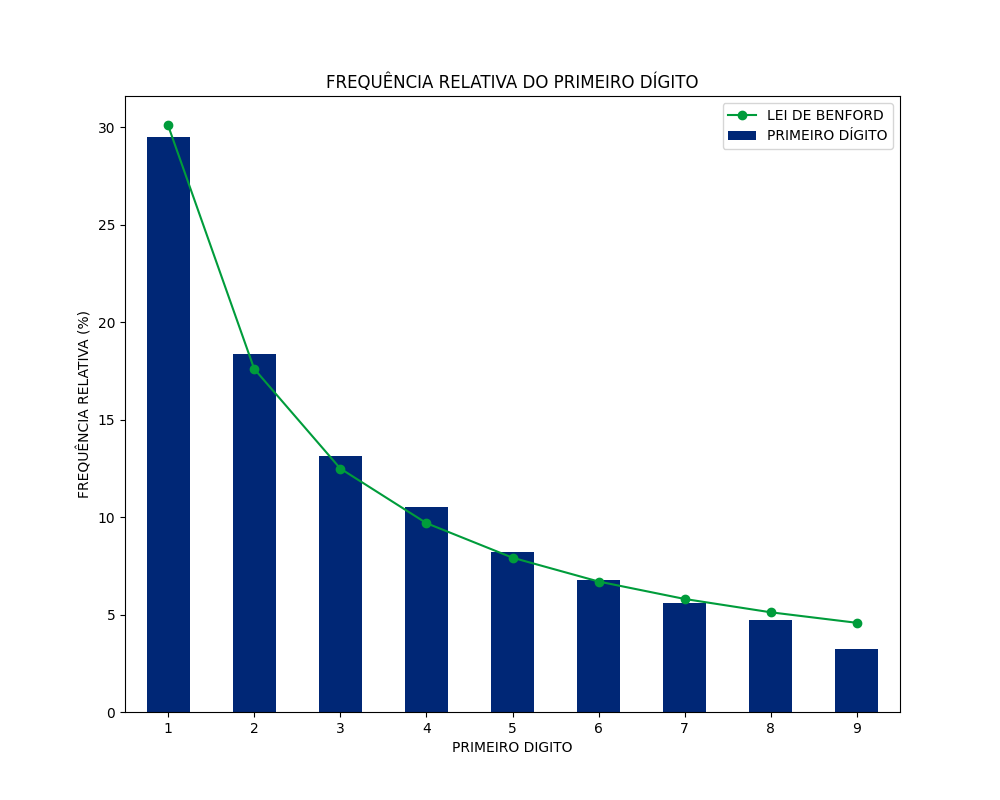
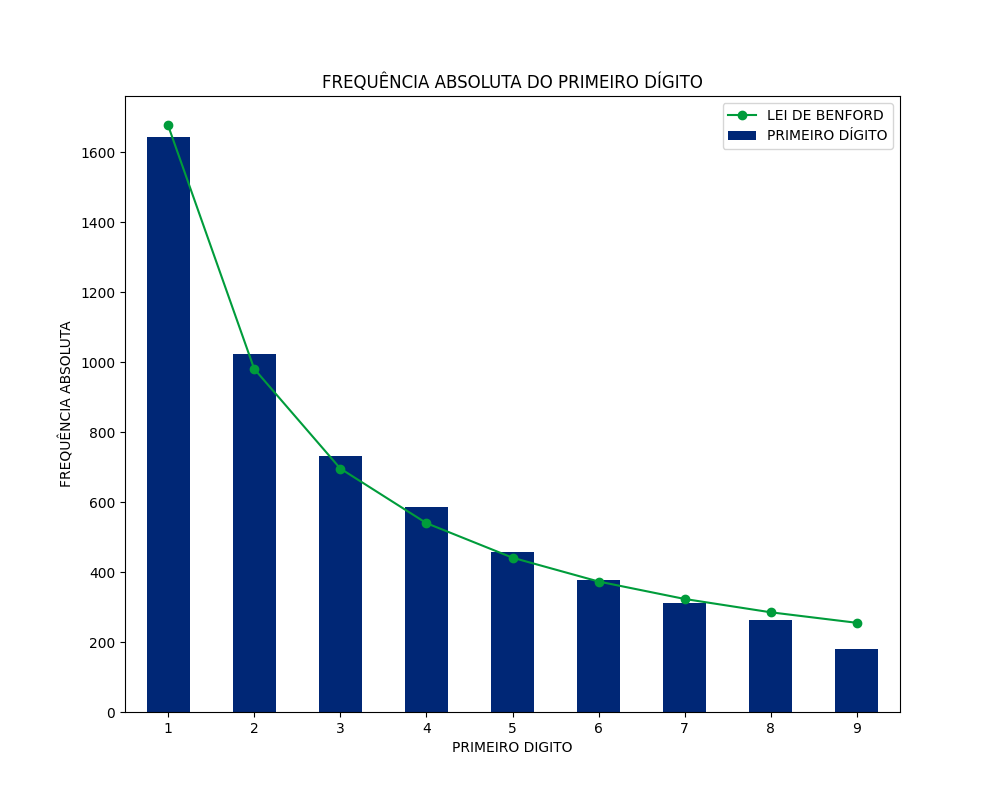
Analisa o erro relativo ao inves de aplicar o teste de aderencia Qui-quadrado.

diff --git a/src/LeiDeBenford.py b/src/LeiDeBenford.py
@@ -5,12 +5,11 @@ from scipy import stats
 class LeiDeBenford:
     """
         Determina o "quão próximo" está da lei de Benford uma distribuição de
-        frequência relativa de um conjunto de dados.
+        frequência absoluta de um conjunto de dados.
     """
     _dado = None
     _coluna = ""
-    _leiDeBenford = [100.0*(log10(d + 1) - log10(d)) for d in range(1, 10)]
-    _frequenciaEsperada = []
+    _leiDeBenford = [(log10(d + 1) - log10(d)) for d in range(1, 10)]
 
     """
         Inicialização da classe.
@@ -19,116 +18,74 @@ class LeiDeBenford:
         self._nomeDoArquivo = nomeDoArquivo
         self._coluna = coluna
         self._dado = pd.read_csv(nomeDoArquivo, delimiter = delimitador, encoding = codificacao)
-        self._frequenciaEsperada = self._leiDeBenford[0:8]
-        self._frequenciaEsperada += self._leiDeBenford[8]
 
     """
-        Aplica o Teste de Aderência Qui-Quadrado em uma distribuição de frequência
-        relativa.
-
-        Argumentos:
-            frequenciaRelativa (list): lista com a frequência relativa dos
-            dígitos de 1 até 9 na amostra de dados.
-            alfa (float): nível de confiança do teste.
-            grauDeLiberdede: grau de liberdade do teste.
+        Determina a frequência absoluta dos algarismos de 1 até 9 no primeiro
+        dígito dos valores na amostra de dados.
 
         Retorno:
-            Imprime no terminal o resultado da aplicação do teste.
+            frequenciaAbsoluta (list): lista com a frequência absoluta.
     """
-    def testarAderencia(self, frequenciaRelativa, alfa = 0.05, grauDeLiberdade = 7):
-        nivelDeConfianca = 1 - alfa
-        qui2Critico = stats.chi2.ppf(nivelDeConfianca, grauDeLiberdade)
-        print(f"(alfa = {alfa}, grauDeLiberdade = {grauDeLiberdade}, chi2Critico = {qui2Critico:5.2f})")
-        frequenciaObservada = frequenciaRelativa[0:8]
-        frequenciaObservada[7] += frequenciaRelativa[8]
-        qui2, p = stats.chisquare(f_obs = frequenciaObservada, f_exp = self._frequenciaEsperada)
-        print(f"qui2 = {qui2}, p = {p}")
-        if(qui2 < qui2Critico):
-            print(f"(qui2 < qui2Critico): Os dados seguem a distribuição da lei de Benford.")
-        else:
-            print(f"(qui2 >= qui2Critico): Os dados não seguem a distribuição da lei de Benford.")
-
-    """
-        Determina a frequência relativa dos dígitos de 1 até 9 na amostra de dados.
-
-        Retorno:
-            frequenciaRelativa (list): lista com a frequência relativa dos
-            dígitos de 1 até 9 na amostra de dados.
-    """
-    def frequenciaRelativa(self):
-        frequenciaRelativa = []
-        totalDeMunicipios = len(self._dado)
+    def frequenciaAbsoluta(self):
+        frequenciaAbsoluta = []
         primeiroDigito = pd.DataFrame({
             self._coluna : self._dado[self._coluna].astype(str)
         })
         primeiroDigito[self._coluna] = primeiroDigito[self._coluna].apply(lambda valor: valor[0])
         for d in range(1, 10):
-            frequenciaAbsoluta = len(primeiroDigito.loc[primeiroDigito[self._coluna] == str(d)])
-            frequenciaRelativa.append(100.0*frequenciaAbsoluta/totalDeMunicipios)
+            frequenciaAbsoluta.append(len(primeiroDigito.loc[primeiroDigito[self._coluna] == str(d)]))
 
-        return frequenciaRelativa
+        return frequenciaAbsoluta
 
     """
         Determina o mínimo e o máximo da amostra de dados, bem como a ordem de
         grandeza entre a diferença dos mesmos.
 
         Retorno:
-            Imprime os valores de mínimo e máximo e da ordem de grandeza entre a
-            diferença deles.
+            minimo (int): menor valor dos dados.
+            maximo (int): maior valor dos dados.
+            odg (int): ordem de grandeza da diferença entre o máximo e o mínimo.
     """
     def ordemDeGradeza(self):
         minimo = self._dado[self._coluna].min()
-        municipioMinimo = self._dado.loc[self._dado[self._coluna] == minimo]
         maximo = self._dado[self._coluna].max()
-        municipioMaximo = self._dado.loc[self._dado[self._coluna] == maximo]
-        print(f"MENOR POPULÇÃO\n{municipioMinimo}\n")
-        print(f"MAIOR POPULÇÃO\n{municipioMaximo}\n")
-        print(f"ordemDeGrandeza(maximo - minimo) = 10^{self.odg(maximo - minimo)}")
+        diferenca = maximo - minimo
+        odg = 0
+        while(diferenca >= 10.0):
+            diferenca /= 10.0
+            odg += 1
+
+        return (minimo, maximo, odg)
 
     """
-        Determina a ordem de grandeza de um número real positivo.
-
-        Argumento:
-            valor (float): número real positivo.
-
-        Retorno:
-            ord (int): ordem de grandeza do valor desejado.
-    """
-    def odg(self, valor):
-        ord = -1
-        while(valor > 1.0):
-            valor /= 10.0
-            ord += 1
-
-        return ord
-
-    """
-        Gera o arquivo com o gráfico da frequência relativa juntamente com a 
+        Gera o arquivo com o gráfico da frequência absoluta juntamente com a 
         curva da lei de Benford.
 
         Argumento:
-            frequenciaRelativa (list): lista com a frequência relativa dos
+            frequenciaAbsoluta (list): lista com a frequência absoluta dos
             dígitos de 1 até 9 na amostra de dados.
             nomeDoArquivo (str): caminho do arquivo.
             titulo (str): título do gráfico.
             cores (list): lista com os códigos hexadecimais das cores usadas
             no gráfico.
         Retorno:
-            Gera o arquivo com o gráfico desejado.
+            Nenhum retorno de variável. Gera o arquivo com o gráfico desejado.
     """
-    def grafico(self, frequenciaRelativa, nomeDoArquivo, titulo, cores = ["#009c3b", "#002776"]):
-        frel = {
-            "FREQUENCIA RELATIVA" : frequenciaRelativa
+    def grafico(self, frequenciaAbsoluta, nomeDoArquivo, titulo, cores = ["#009c3b", "#002776"]):
+        fqAbs = {
+            "FREQUENCIA ABSOLUTA" : frequenciaAbsoluta
         }
-        frel["PRIMEIRO DIGITO"] = range(1, 10)
-        frel["LEI DE BENFORD"] = self._leiDeBenford
-        frel = pd.DataFrame(frel)
+        fqAbs["PRIMEIRO DIGITO"] = range(1, 10)
+        totalDeMunicipios = sum(frequenciaAbsoluta)
+        frequenciaEsperada = [totalDeMunicipios*self._leiDeBenford[i] for i in range(len(frequenciaAbsoluta))]
+        fqAbs["LEI DE BENFORD"] = frequenciaEsperada
+        fqAbs = pd.DataFrame(fqAbs)
 
-        ax = frel.plot(
+        ax = fqAbs.plot(
             x = "PRIMEIRO DIGITO",
             y = "LEI DE BENFORD",
             xlabel = "PRIMEIRO DÍGITO",
-            ylabel = "FREQUÊNCIA RELATIVA (%)",
+            ylabel = "FREQUÊNCIA ABSOLUTA",
             title = titulo,
             rot = 0,
             marker = "o",
@@ -137,9 +94,9 @@ class LeiDeBenford:
             use_index = False
         )
 
-        frel.plot(
+        fqAbs.plot(
             x = "PRIMEIRO DIGITO",
-            y = "FREQUENCIA RELATIVA",
+            y = "FREQUENCIA ABSOLUTA",
             label = "PRIMEIRO DÍGITO",
             rot = 0,
             color = cores[1],

diff --git a/verificarLeiDeBenford.py b/verificarLeiDeBenford.py
@@ -1,4 +1,5 @@
 #!/usr/bin/python3
+import numpy as np
 import pandas as pd
 from src.LeiDeBenford import *
 
@@ -12,29 +13,28 @@ coluna = "POPULACAO_ESTIMADA"
 lb = LeiDeBenford(arquivoDeDados, coluna)
 
 """
+    Determinar a frequência absoluta dos algarimos no primeiro dígito dos dados
+    da população.
+"""
+print(f"[DÍGITO  |  FREQUÊNCIA ABSOLUTA  |  LEI DE BENFORD  |  ERRO (%)]")
+frequenciaAbsoluta = lb.frequenciaAbsoluta()
+totalDeMunicipios = sum(frequenciaAbsoluta)
+leiDeBenford = [totalDeMunicipios*(np.log10(d + 1) - np.log10(d)) for d in range(1, 10)]
+erroPercentual = [frequenciaAbsoluta[i]/leiDeBenford[i] - 1.0 for i in range(len(frequenciaAbsoluta))]
+for i in range(9):
+    print(f"{i + 1}     {frequenciaAbsoluta[i]}     {leiDeBenford[i]:5.2f}     {erroPercentual[i]:5.2f}")
+
+print("")
+
+"""
     Determinar a ordem de grandeza entre a diferença da população dos municípios
     com menor e maior habitantes.
 """
 print(f"ORDEM DE GRANDEZA NOS DADOS")
-lb.ordemDeGradeza()
-print("")
-
-"""
-    Determinar a frequência relativa dos algarimos no primeiro dígito dos dados
-    da população.
-"""
-print(f"[DÍGITO  |  FREQUÊNCIA RELATIVA]")
-frequenciaRelativa = lb.frequenciaRelativa()
-for i in range(9):
-    print(f"{i + 1}  {frequenciaRelativa[i]:5.2f}")
-
-print("")
-
-"""
-    Aplicar o Teste de Aderência Qui-quadrado.
-"""
-print(f"TESTE DE ADERÊNCIA QUI-QUADRADO")
-lb.testarAderencia(frequenciaRelativa)
+minimo, maximo, ordemDeGrandeza = lb.ordemDeGradeza()
+print(f"MENOR POPULÇÃO: \n{minimo}\n")
+print(f"MAIOR POPULÇÃO: \n{maximo}\n")
+print(f"ordemDeGrandeza(maximo - minimo) = 10^{ordemDeGrandeza}")
 print("")
 
 """
@@ -42,6 +42,6 @@ print("")
     da lei de Benford.
 """
 arquivoGrafico = "data/teste-de-aderencia-populacao-br.png"
-titulo = "FREQUÊNCIA RELATIVA DO PRIMEIRO DÍGITO"
+titulo = "FREQUÊNCIA ABSOLUTA DO PRIMEIRO DÍGITO"
 print(f"SALVANDO O GRÁFICO: {arquivoGrafico}")
-lb.grafico(frequenciaRelativa, arquivoGrafico, titulo)
+lb.grafico(frequenciaAbsoluta, arquivoGrafico, titulo)
